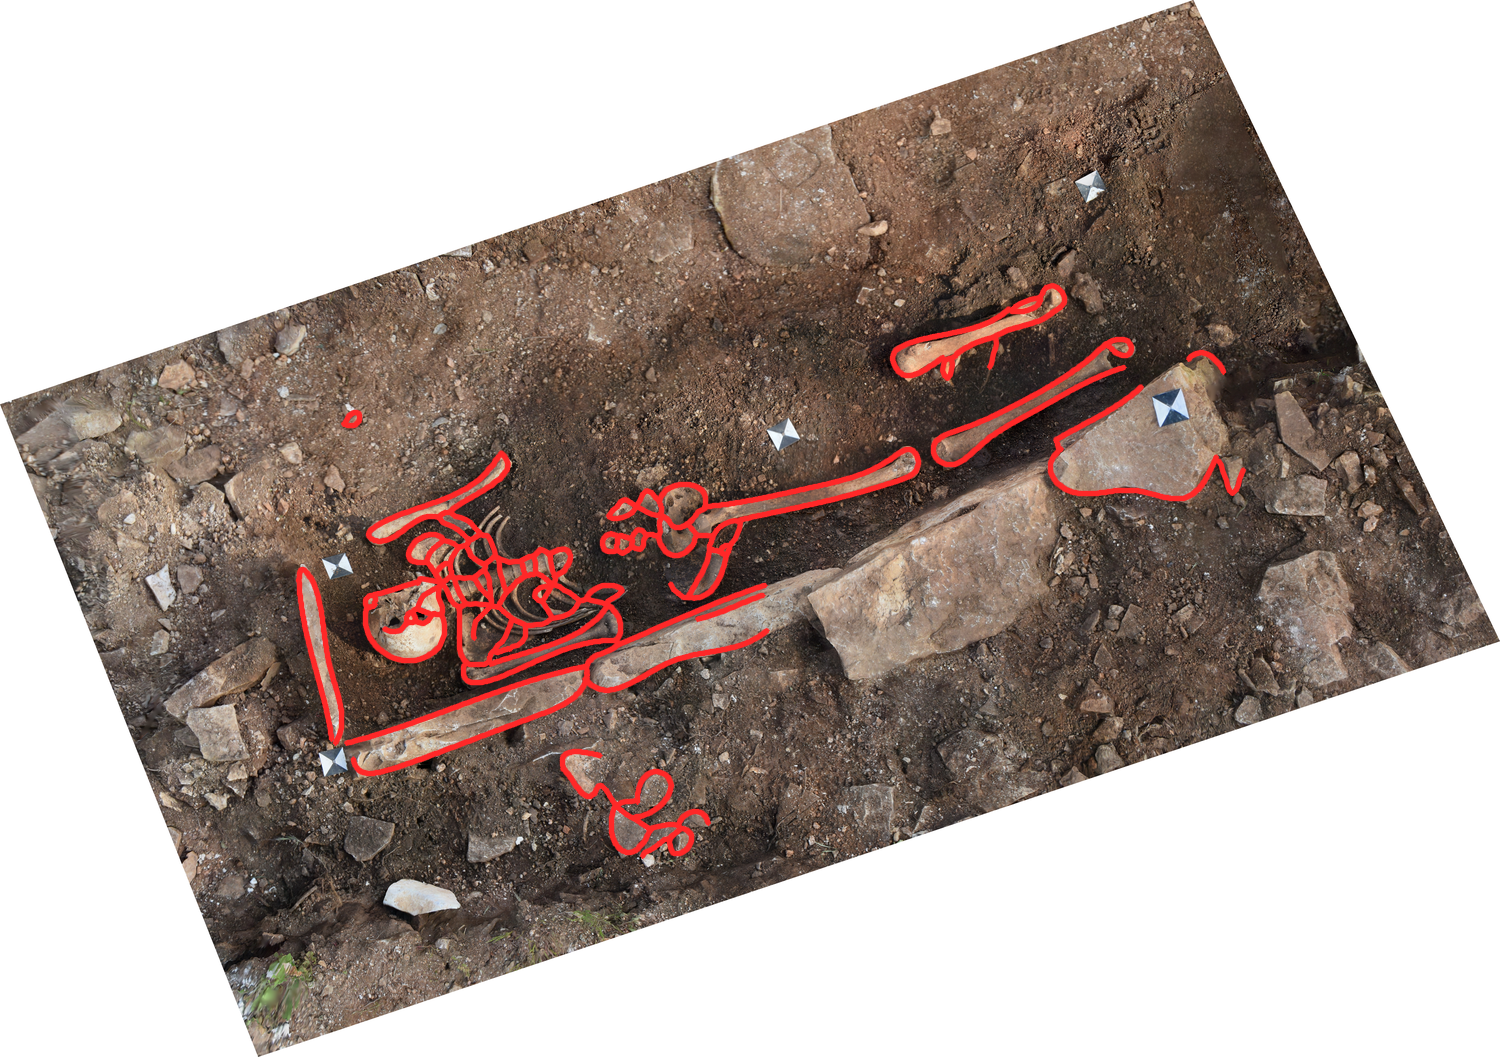
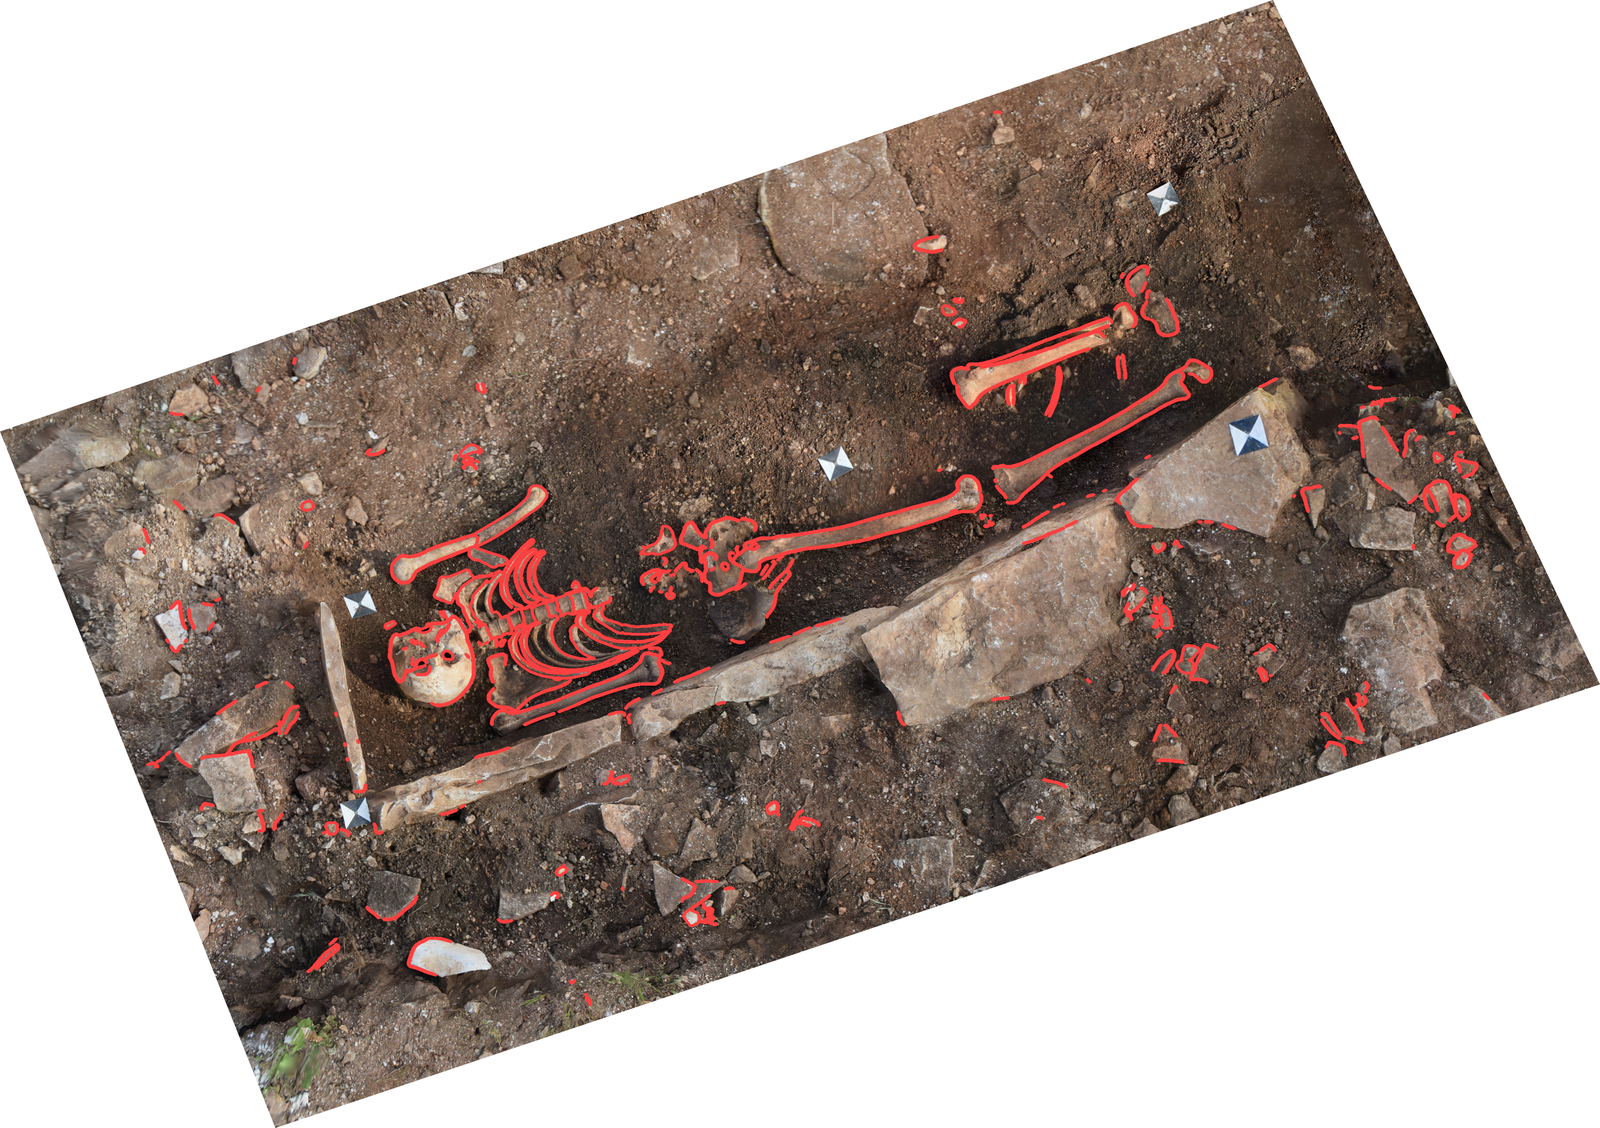
docs: regenerate demo figures from real model output
The previous banner and example were a simplified fat-stroke vector that
missed bones (vertebrae, lower legs). Regenerate all three from the actual
model367b3 pipeline at default settings so the figures match what the app
renders:

- demo.png: real detailed U-Net mask + fine vector line-drawing (Gr. 59)
- example_overlay.png: thin red bone outlines, every element traced (Gr. 59)
- example_gr79.png: second grave (Gr. 79, Sv. Teodor) as a second example

diff --git a/README.md b/README.md
@@ -247,10 +247,14 @@ degrades to CPU rather than crashing.
 
 ## Example output
 
-![Extracted bone centerlines drawn over the photograph](docs/example_overlay.png)
+![Detected bone outlines drawn over the photograph](docs/example_overlay.png)
 
-The extracted centerlines (red) drawn back over the input photograph — this is
-the vector geometry that gets written to GeoJSON / DXF / SVG.
+The detected bone outlines (red) drawn back over the input photograph — skull,
+ribs, vertebrae and long bones are each segmented, then written to GeoJSON /
+DXF / SVG. Both figures are raw model output at default settings (threshold
+0.5, min object 32 px) — no manual cleanup.
+
+![A second grave — the same pipeline on a different burial](docs/example_gr79.png)
 
 ---
 
